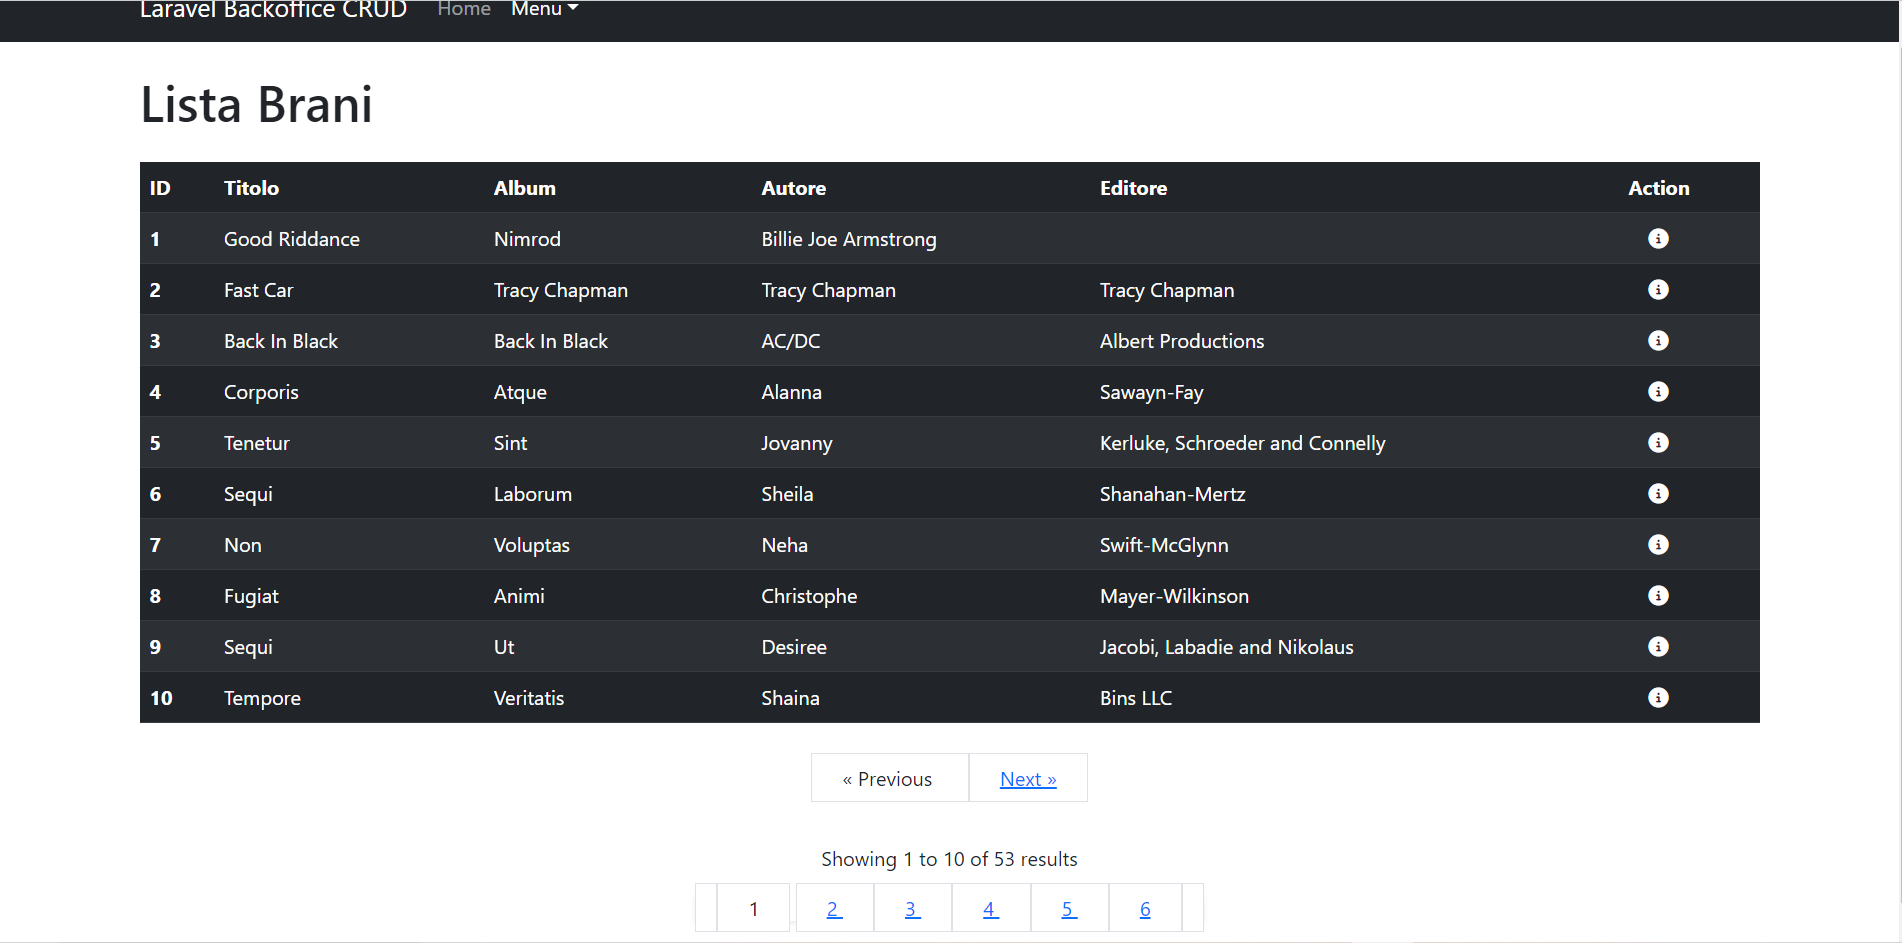
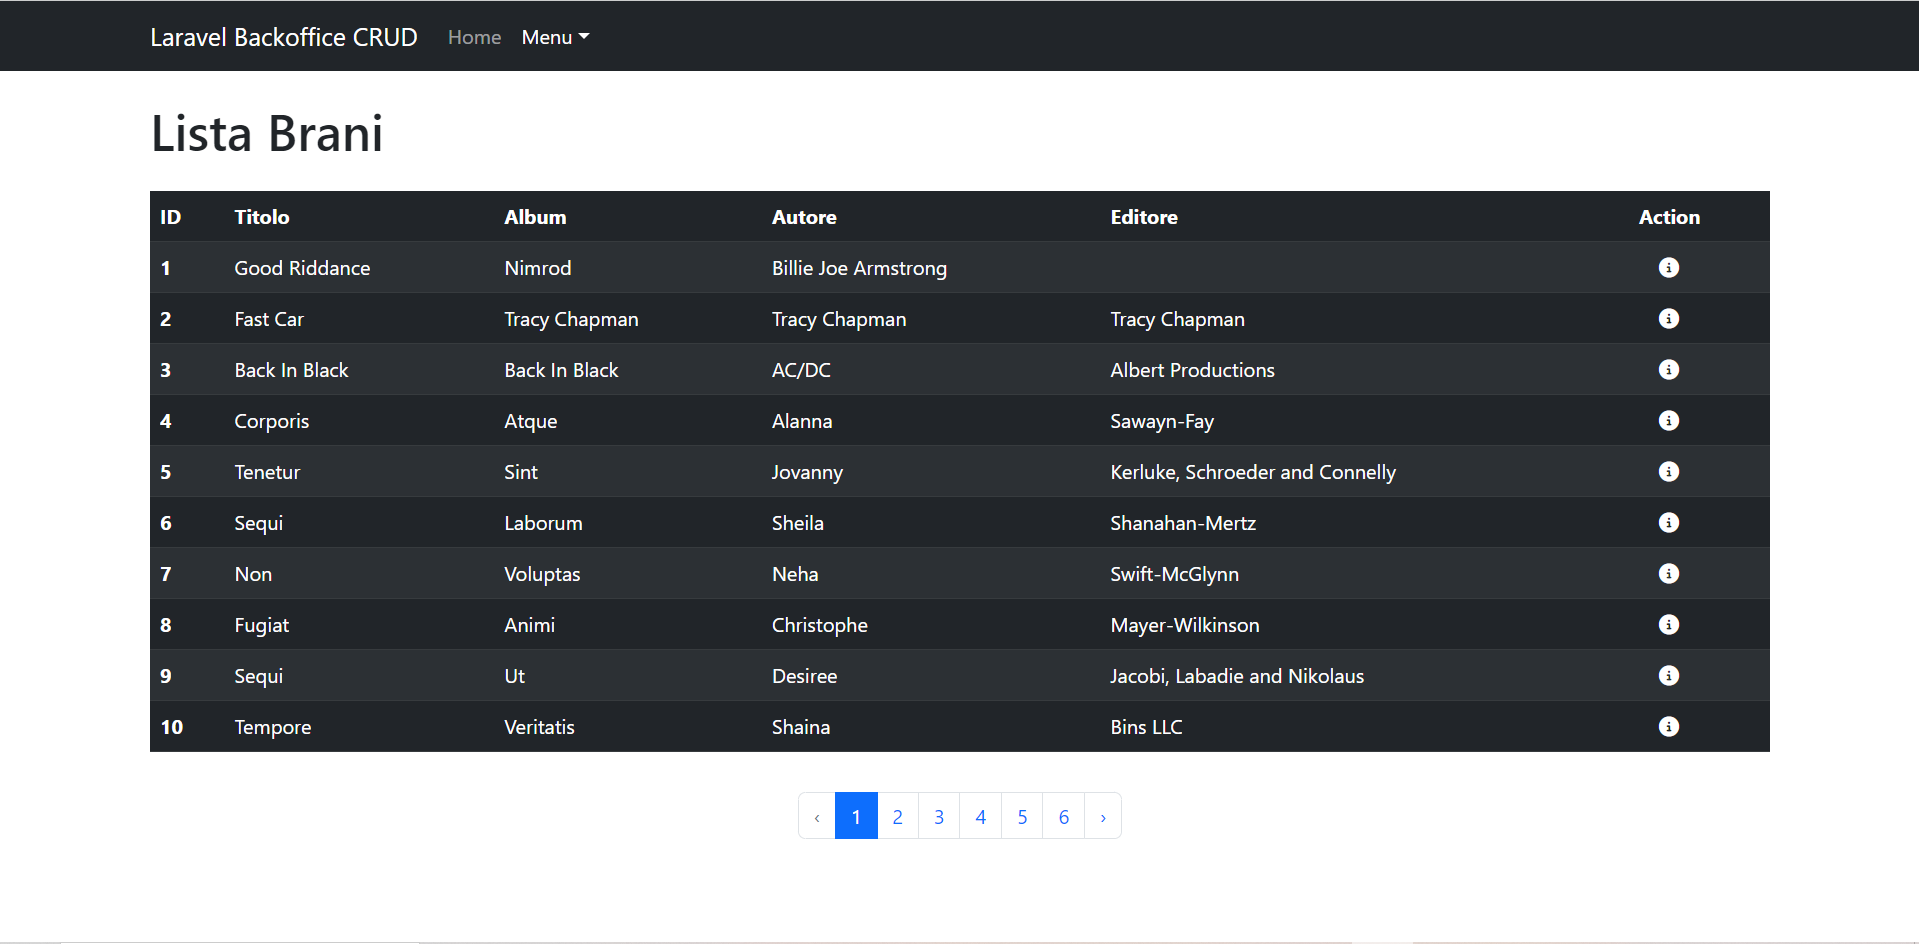
use Bootstrap for pagination

Changed region(s): [[0.0, 0.0, 1.0, 0.9226], [0.3722, 0.9841, 0.6514, 1.0], [0.031, 0.9841, 0.2171, 1.0]]

diff --git a/resources/scss/app.scss b/resources/scss/app.scss
@@ -4,27 +4,14 @@ img {
     max-height: 150px;
 }
 
-.w-5 {
-    display: none;
-}
-
 main {
     section {
         .pagination-control {
             display: flex;
             justify-content: center;
-            align-items: center;
             margin: 2rem 0;
-
-            nav {
-                height: 8rem;
-                display: flex;
-                flex-direction: column;
-                justify-content: space-between;
-                align-items: center;
-                text-align: center;
-            }
         }
+
         .my-card {
             border: 2px solid #111;
             padding: 1rem;

diff --git a/app/Providers/AppServiceProvider.php b/app/Providers/AppServiceProvider.php
@@ -2,6 +2,7 @@
 
 namespace App\Providers;
 
+use Illuminate\Pagination\Paginator;
 use Illuminate\Support\ServiceProvider;
 
 class AppServiceProvider extends ServiceProvider
@@ -23,6 +24,7 @@ class AppServiceProvider extends ServiceProvider
      */
     public function boot()
     {
-        //
+        // Faccio in modo di poter utilizzare Bootstrap per la paginazione
+        Paginator::useBootstrap();
     }
 }
